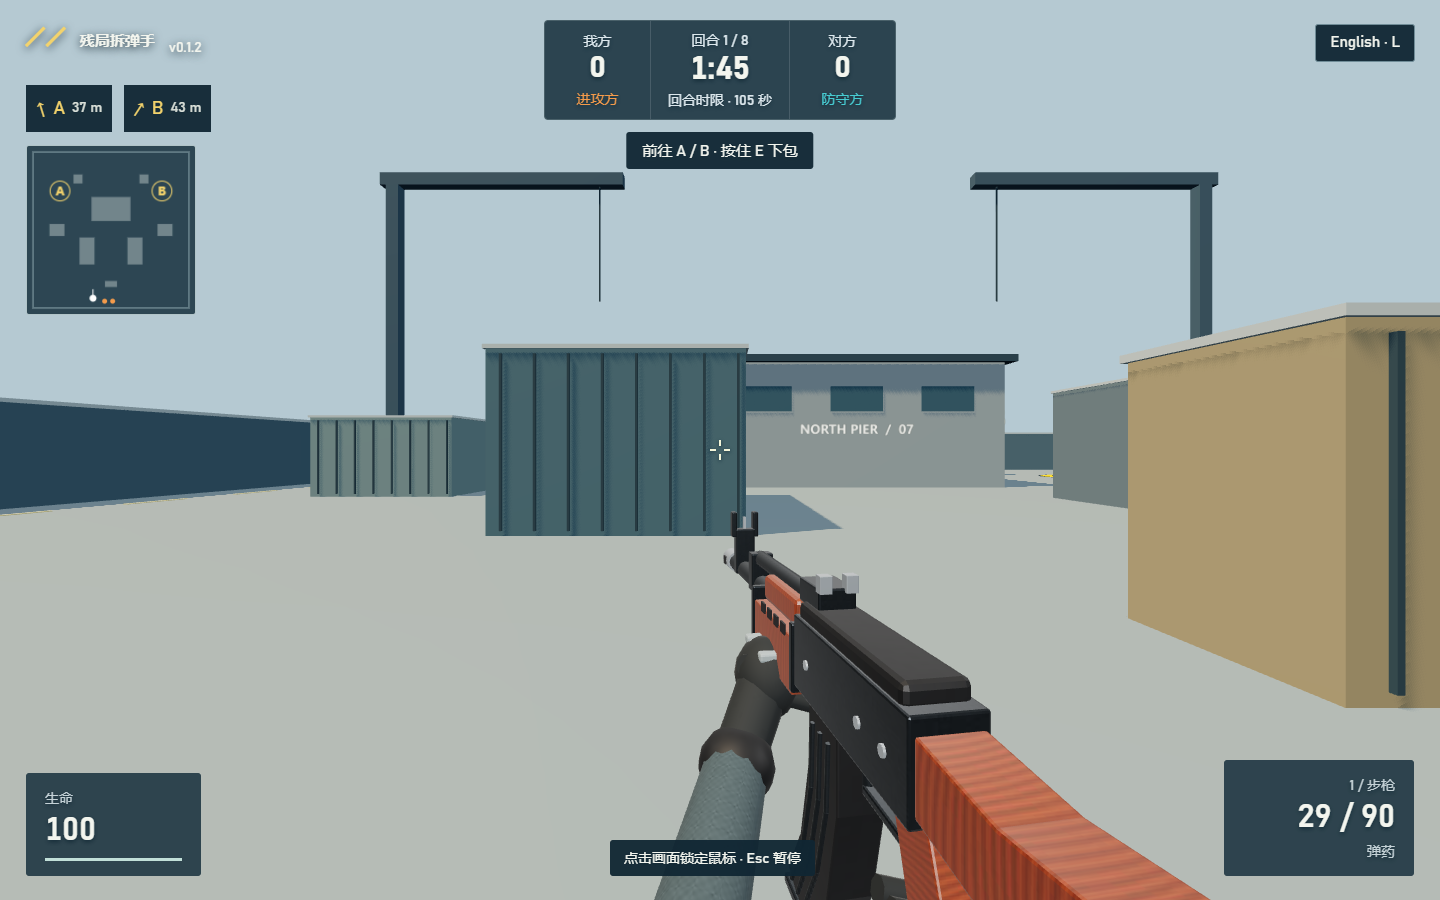
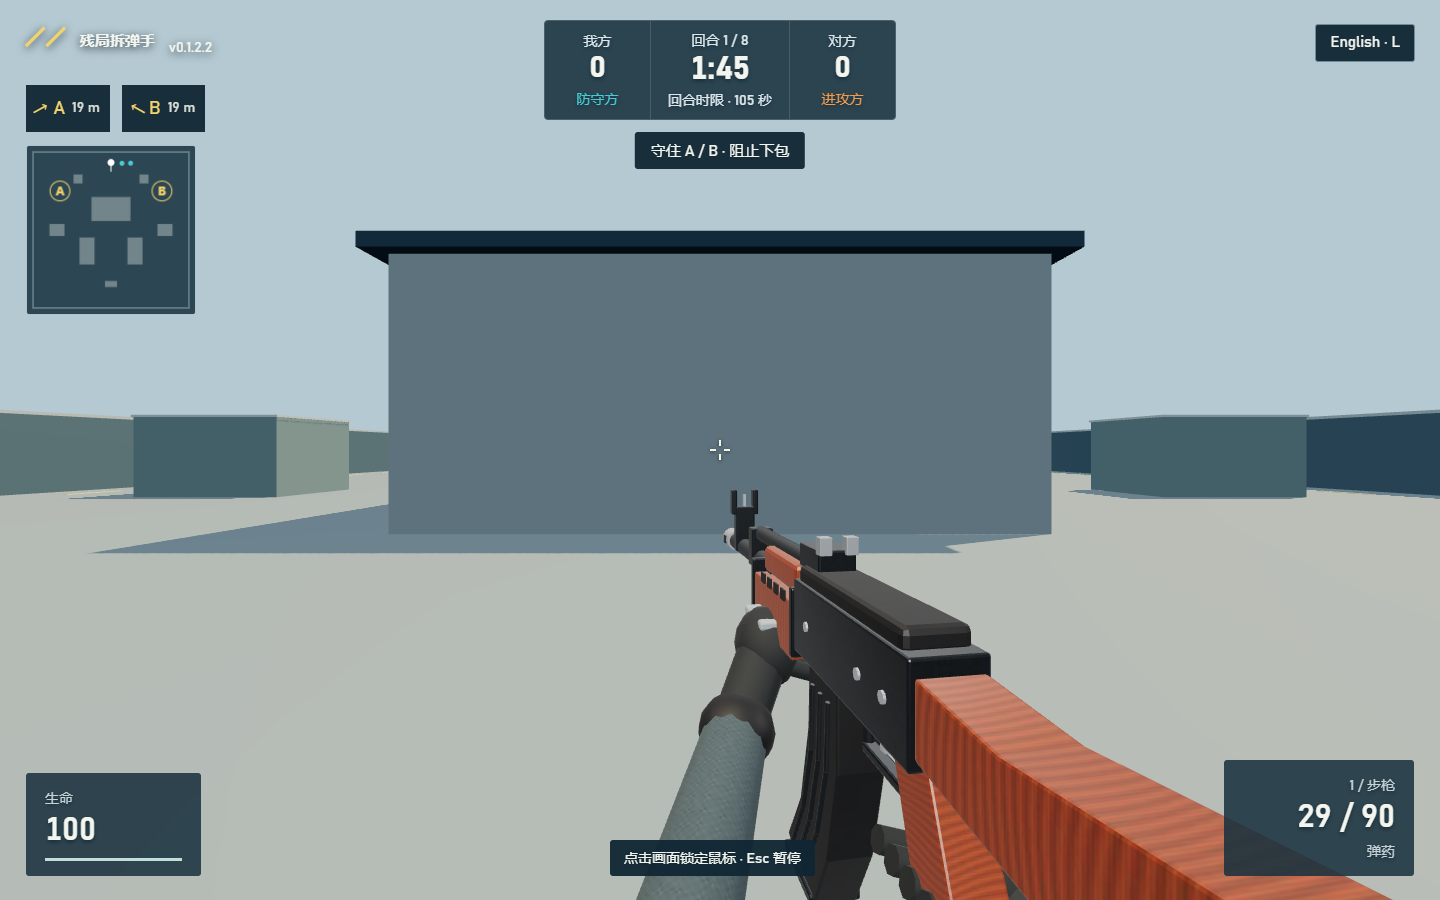
docs: record v0.1.2.2 Pages SHA and passing live QA

diff --git a/docs/DEV-REPORT.md b/docs/DEV-REPORT.md
@@ -19,8 +19,10 @@
 - 发布前 `node scripts/combat-qa.mjs`（亦可 `npm run test:combat`）：**17/17 通过**，无浏览器错误；验证站立/蹲伏/转身/同帧移动、头/身体、墙后敌人优先、友军忽略、死亡敌人排除、实体/天空弹道回退及两档难度三把武器的真实鼠标射击。[战斗证据](qa/combat-qa.json)
 - `npm run build`：TypeScript 与 Vite 生产构建通过；仍有既存 Three.js 单块超过 500 kB 的体积提示。
 - `npm run test:browser`：**12/12 通过**；生产预览运行 `npm run test:public` 通过，无页面错误或控制台警告，包含 opt-in API、快照隔离和重开后的状态验证。[生产预览证据](qa/preview-v0.1.2.2.json)
-- 发布源码提交与 Pages SHA：发布后补记。部署前基线提交为 `03a4bac`；本次提交包含此前在本地完成的武器模型、选边、简单 AI 和一击必杀功能，避免把旧基线误当成发布源码。
-- 部署状态：待执行；尚未将本节的本地验证冒充公网验证。
+- 发布源码提交：`fd8c4054f75ac484876098f3846e75f1a2cfe16e`（`main`，已推送）。部署前基线为 `03a4bac`；发布提交包含此前在本地完成的武器模型、选边、简单 AI 和一击必杀功能。后续仅补记报告与公网证据，不改变构建源码。
+- `npm run deploy`：**Published**。Pages 提交：`62e69dc96393952263db23cc7a92b0faf254e9ee`；[部署工作流](https://github.com/Tina2088/last-round-defuse/actions/runs/42170985058) 成功，API 状态 **built**，HTTPS 强制开启。
+- 2026-11-06 05:54:09 UTC（北京时间 13:54:09），公网全部 **9 个文件与本地 dist 逐字节一致**，包括 HTML、JS/CSS 和三份模型。[文件 SHA-256 证据](qa/deployment-v0.1.2.2.json)
+- 2026-11-06 05:54:13 UTC，公网 `npm run test:public` **通过**：HTTP 200、品牌与标题 v0.1.2.2、真实键鼠和开关流程、默认/qa=0 隐藏 API、qa=1 读取快照、重开后读取当前状态；页面错误与控制台警告均为 0。[公网冒烟证据](qa/public-v0.1.2.2.json)
 
 以下保留旧版本历史记录与当时的测试证据；以本节为当前版本行为和验收依据。
 
